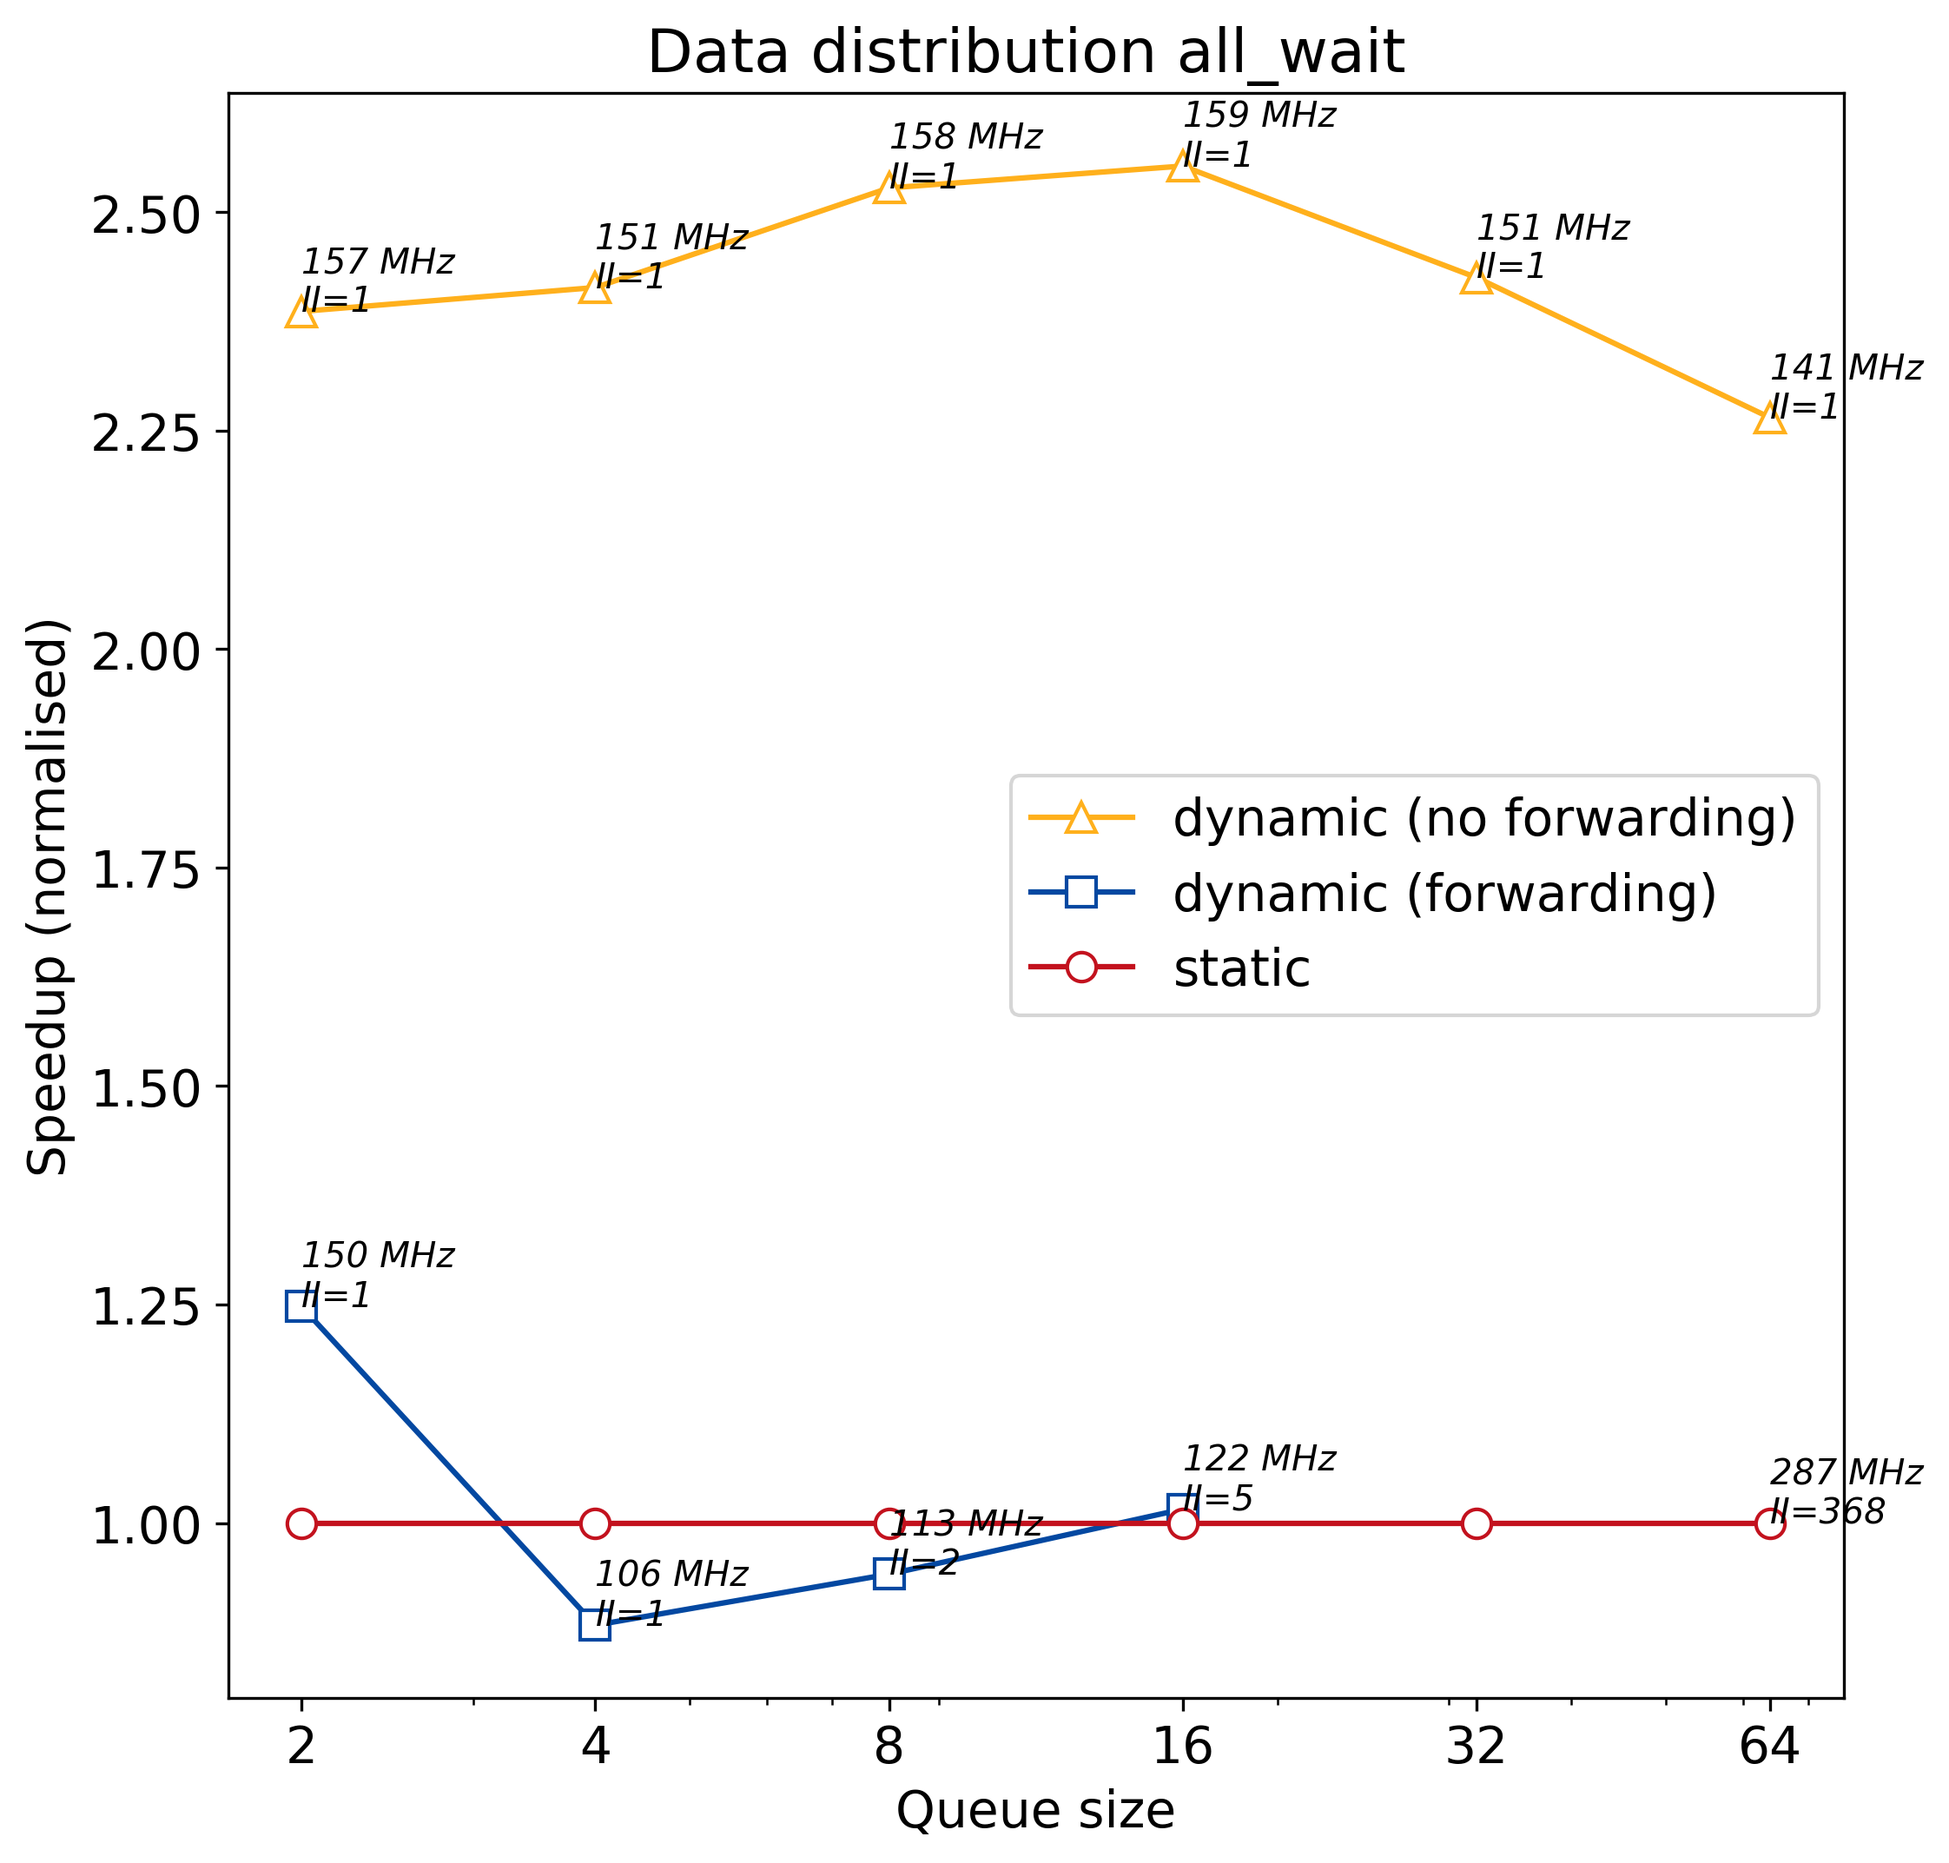
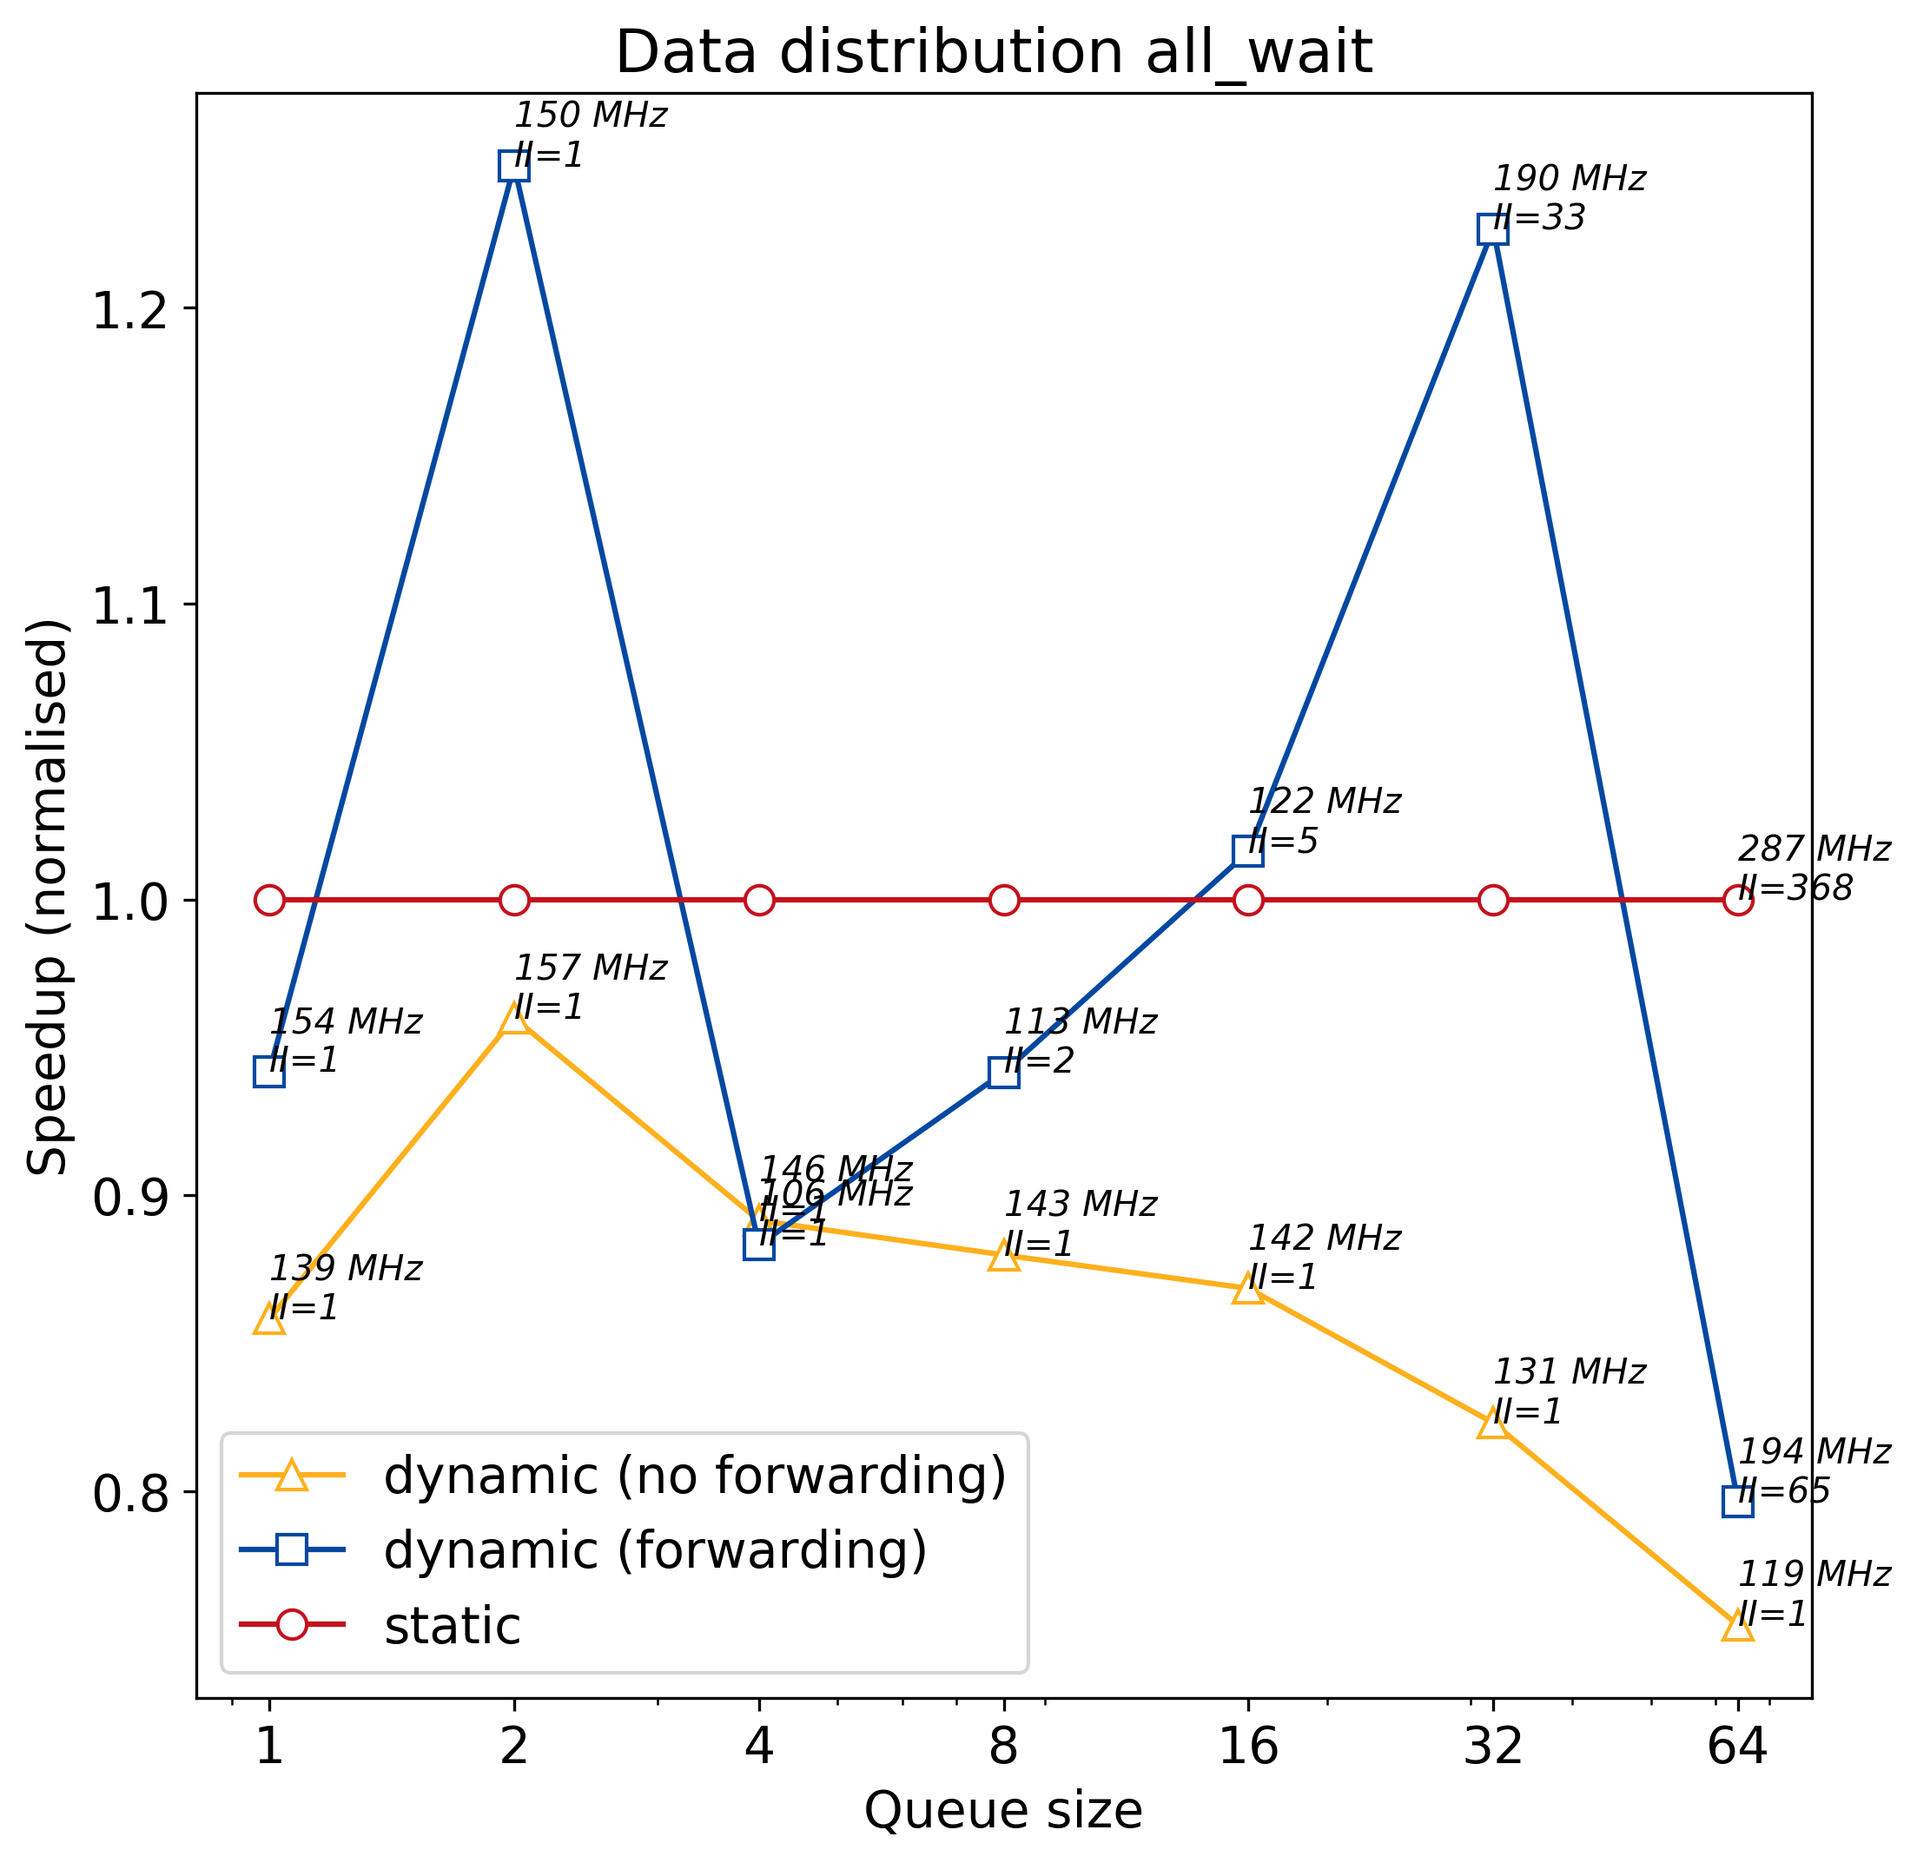
Add hw perf data.

diff --git a/run_exp_all_percentages.py b/run_exp_all_percentages.py
@@ -13,14 +13,14 @@ BEST_Q_SIZES_DYNAMIC = {
     'histogram_if' : 16,
     'spmv' : 16,
     'maximal_matching' : 4,
-    'get_tanh' : 16,
+    'get_tanh' : 2,
 }
 BEST_Q_SIZES_DYNAMIC_NO_FORWARD  = {
     'histogram' : 32,   # 64 is actually better
     'histogram_if' : 32,
     'spmv' : 32,
     'maximal_matching' : 4,
-    'get_tanh' : 16,
+    'get_tanh' : 4,
 }
 
 DATA_DISTRIBUTION_KEY = 2

diff --git a/run_exp.py b/run_exp.py
@@ -29,8 +29,8 @@ DATA_DISTRIBUTIONS = {
     # 2: 'percentage_wait' # run_exp_all_percentages runs for different % of data hazards.
 }
 
-Q_SIZES_DYNAMIC = [2, 4, 8, 16]
-Q_SIZES_DYNAMIC_NO_FORWARD = [2, 4, 8, 16, 32, 64]
+Q_SIZES_DYNAMIC = [1, 2, 4, 8, 16, 32, 64]
+Q_SIZES_DYNAMIC_NO_FORWARD = [1, 2, 4, 8, 16, 32, 64]
 
 PERCENTAGE_WAIT = 5
 
